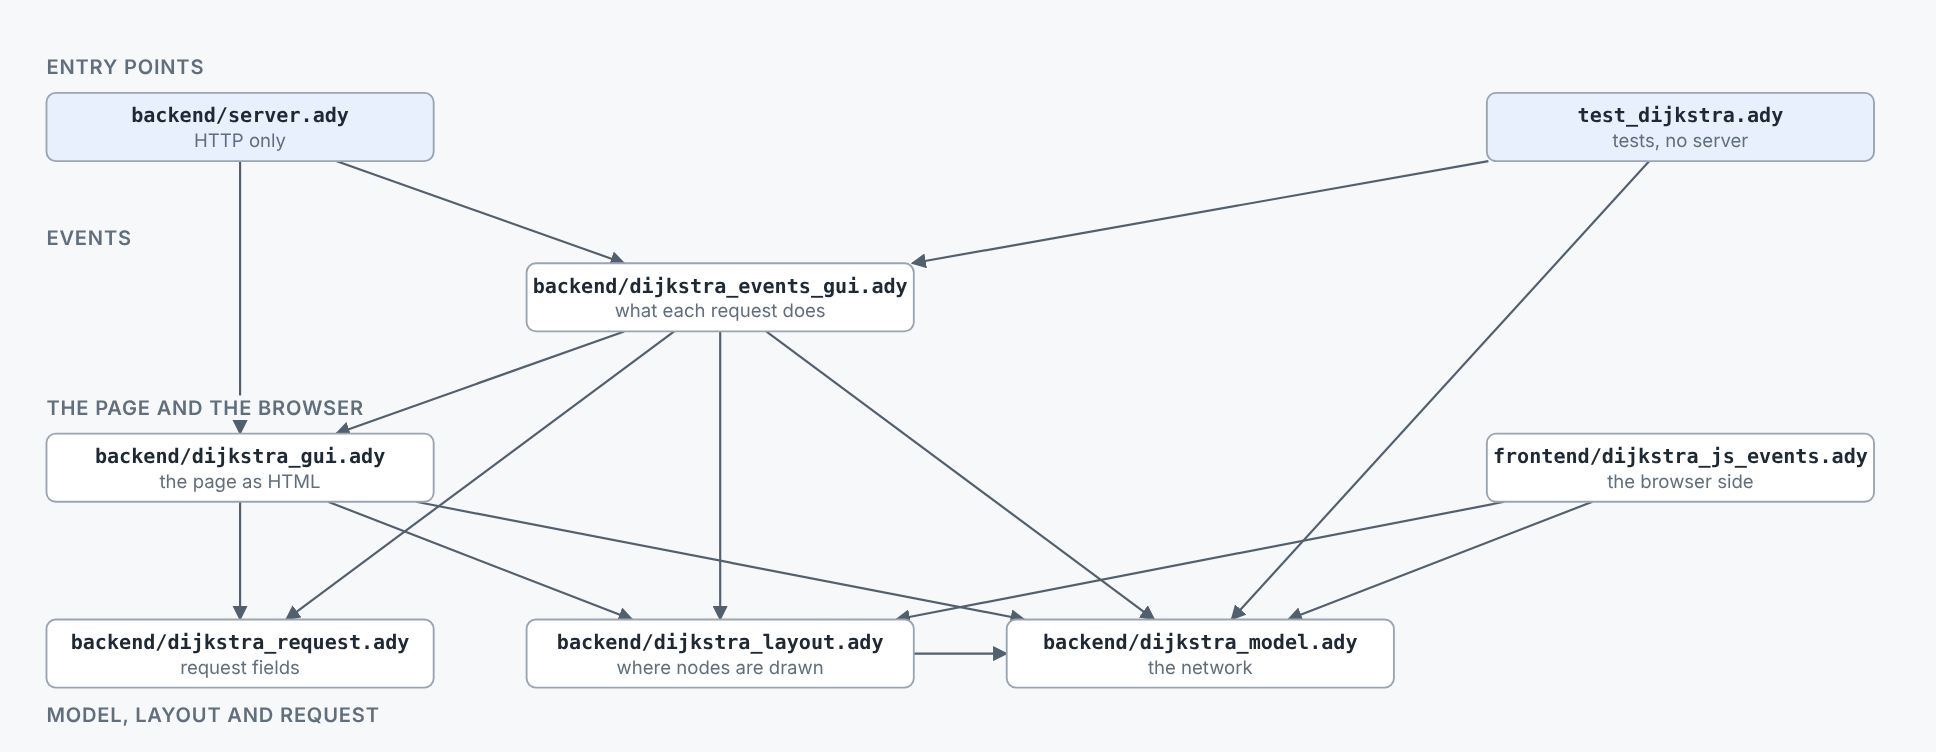
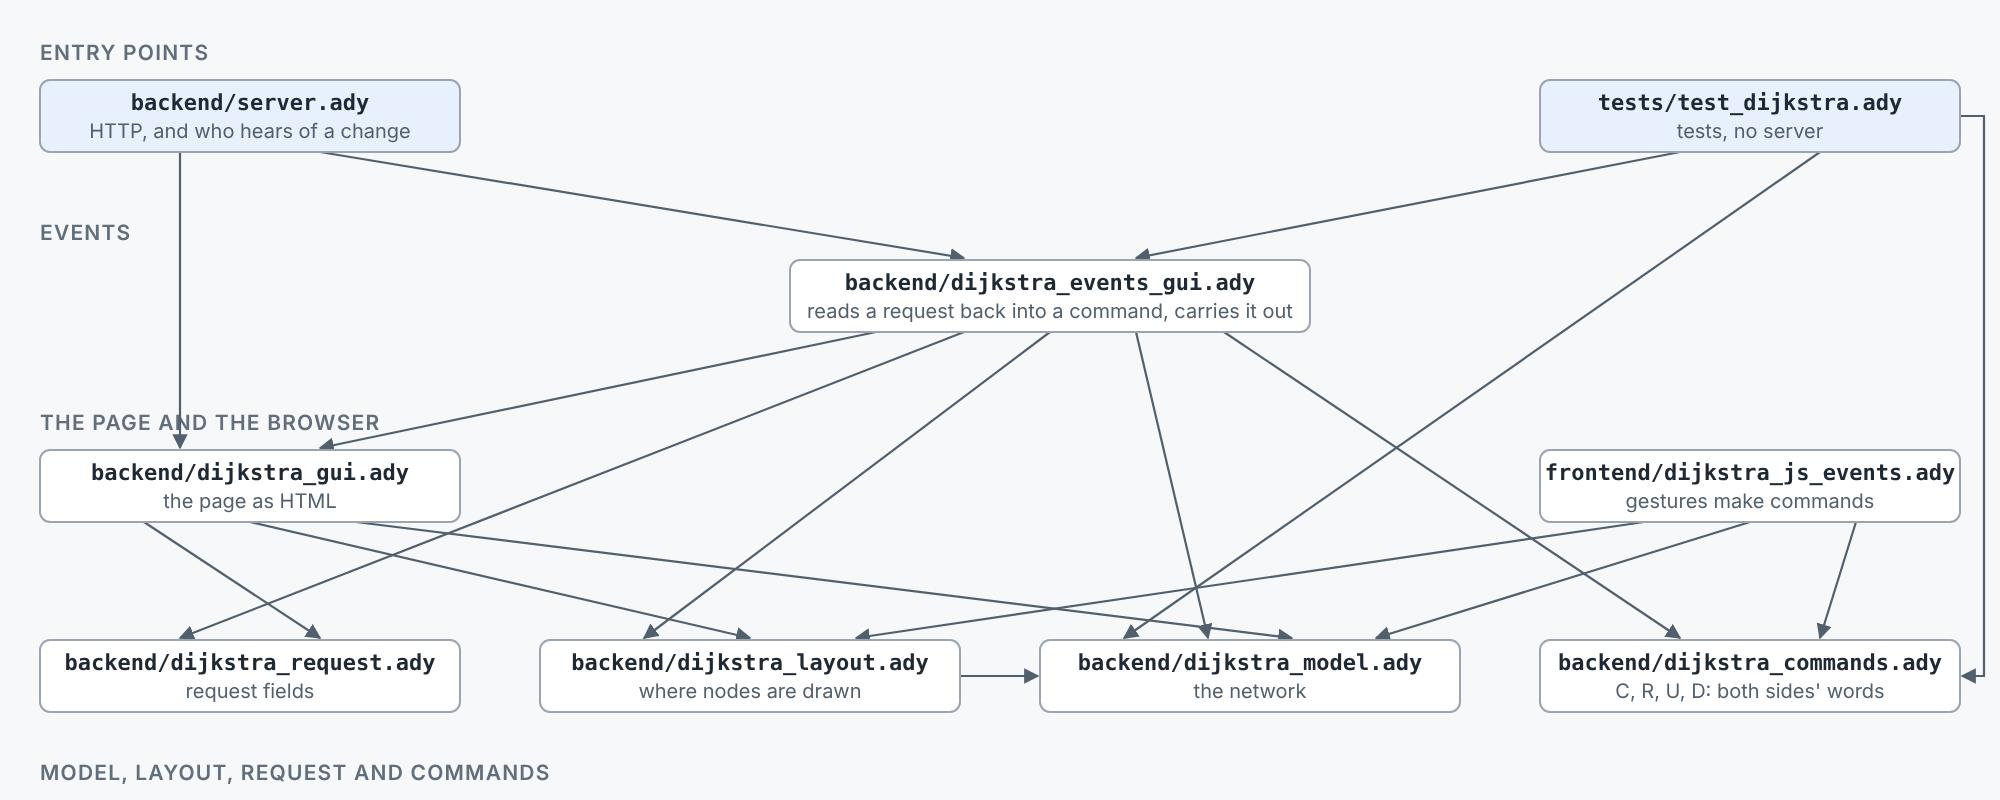
DIJKSTRA_HTMX: the page and the server speak one vocabulary of commands
backend/dijkstra_commands.ady (was frontend/), compiled both ways like the
model: Command, its verbs and things, the constructors, method_of and url_of to
put one on the wire and command_of to read it back. Session.answer reads every
request back into a Command and carry_out does it, a case on the thing and one
on the verb; a Change carries the same Verb_T (UPDATE with no key for
relayout and reset, in place of RELOAD). send stays in the page. Tests check
every command survives the wire; README, tutorial and dependencies.png say so.

Claude-Session: https://claude.ai/code/session_01J5q3BrRCyVziRUYfDHvMwS

diff --git a/BROWSER_EXAMPLES/DIJKSTRA_HTMX/README.md b/BROWSER_EXAMPLES/DIJKSTRA_HTMX/README.md
@@ -30,16 +30,16 @@ the other.
 |---|---|
 | `backend/dijkstra_model.ady` | the model, a placeholder: a class `Network` of `Node_T`s (a name each), `Edge_T`s and the places the reader put the nodes, with its methods (`add_node`, `remove_node`, `add_edge`, `set_cost`, `remove_edge`, `put`, `forget_places`, each `add`, `remove` or `set` refusing with a `Refusal_T` (its `message` is what the page shows), or done; `names`, `edge_at`, `text`, `build_graph`, which makes of it the graph the library's `shortest_route` wants, `TO_NIM/STDLIB/graphs.ady`); `Network(text)`, a second constructor, reads it back from text. Replace it with your own; no HTML, no HTTP. |
 | `backend/dijkstra_layout.ady` | where each node is drawn when the reader has not put it somewhere: `place_of` (the places the model keeps, else `new_spot`, the layout algorithm: evenly spaced round an ellipse, in the model's order), and `inside`, which keeps a node within the drawing's margin. Compiled both ways, like the model: the server draws the page with it, and the browser's `NetworkView` moves nodes with it. |
+| `backend/dijkstra_commands.ady` | the vocabulary of the page and the server: a `Command` is a verb (`CREATE`, `READ`, `UPDATE`, `DELETE`), what it is done to (`NODE`, `EDGE`, the `NETWORK` that is read) and its fields; one function per command (`create_node`, `update_node`, `delete_node`, `create_edge`, `update_edge`, `delete_edge`, `read_network`); `method_of` and `url_of` put it on the wire, `command_of` reads it back. Compiled both ways, like the model: the page makes commands, the server carries them out, and what changed goes out in the same verbs. No HTML, no HTTP. |
 | `backend/dijkstra_gui.ady` | how to draw it: the SVG, the buttons, the form `#state`, the menus, the text. A function from the network and what is picked to HTML: `all_html` for the page, `problem_html` for the answer to a command, `to_html` for the drawing and for each node and edge in it. |
-| `backend/dijkstra_request.ady` | the fields of a request: `field_of` and `number_of` read them, `params_of` reads the reader's choice (`Params_T`: the start, the goal, the node clicked). No HTML, no HTTP. |
-| `backend/dijkstra_events_gui.ady` | what each request does: `Session.answer(method, path, fields)`: a read returns the page; a command calls the model, answers only whether it went through (`#problem`), and publishes the `Change` on its channel (`nodes`, `edges`). A `Session` holds the network and the file it is kept in (`keep` writes it). No HTTP, so the tests call it. |
+| `backend/dijkstra_request.ady` | the fields of a request: `fields_of` reads them all by name, `field_of` and `number_of` one, `params_of` reads the reader's choice (`Params_T`: the start, the goal, the node clicked). No HTML, no HTTP. |
+| `backend/dijkstra_events_gui.ady` | what each request does: `Session.answer(method, path, fields)` reads it back into a `Command`; a read returns the page; a change (`carry_out`) calls the model, answers only whether it went through (`#problem`), and publishes the `Change` on its channel (`nodes`, `edges`). A `Session` holds the network and the file it is kept in (`keep` writes it). No HTTP, so the tests call it. |
 | `backend/server.ady` | HTTP, and who hears of a change: hands each request to `session.answer`, serves the two scripts, keeps `GET /events` open for every page, and subscribes `keep` (writes `graph.txt`) and `tell` (writes the change to every open page) to the session's channels. |
-| `frontend/dijkstra_js_events.ady` | the browser side, compiled to JavaScript: moves a node and redraws its edges while the mouse moves (the server could not keep up with every frame), then sends the new place (PUT /nodes). Every gesture makes a command (`dijkstra_commands.ady`) and `send`s it. It follows `GET /events` and reads the page again (`GET /all`, into `#all`) on each change, whichever page made it. |
-| `frontend/dijkstra_commands.ady` | what the page can ask of the server: a `Command` is a verb (`CREATE`, `READ`, `UPDATE`, `DELETE`), what it is done to (`NODE`, `EDGE`, the `NETWORK` that is read) and its fields; one function per command (`create_node`, `update_node`, `delete_node`, `create_edge`, `update_edge`, `delete_edge`, `read_network`), and `send`, the one place a command goes to the server. |
+| `frontend/dijkstra_js_events.ady` | the browser side, compiled to JavaScript: moves a node and redraws its edges while the mouse moves (the server could not keep up with every frame), then sends the new place (PUT /nodes). Every gesture makes a command (`backend/dijkstra_commands.ady`), and `send`, the one place the page talks to the server, sends it. It follows `GET /events` and reads the page again (`GET /all`, into `#all`) on each change, whichever page made it. |
 | `tests/test_dijkstra.ady` | tests of the model, and of the page through `session.answer`, as the browser would ask (a command, then the page read again), and of what a subscriber hears; nothing is started. |
 | `frontend/htmx.min.js` | htmx, vendored (14 KB gzipped). |
 
-`backend/` is native (compiled to C), `frontend/` is what the browser runs (JavaScript: our `dijkstra_js_events.ady` and the vendored htmx). The model and the layout are compiled both ways: the page carries the network, its places included, as the server keeps it (a hidden `pre#network`), and `dijkstra_js_events.ady` builds its `NetworkView` from that with the same `Network(text)`, so where a node is drawn is computed from the model, never read off the drawing.
+`backend/` is native (compiled to C), `frontend/` is what the browser runs (JavaScript: our `dijkstra_js_events.ady` and the vendored htmx). The model, the layout and the commands are compiled both ways: the page carries the network, its places included, as the server keeps it (a hidden `pre#network`), and `dijkstra_js_events.ady` builds its `NetworkView` from that with the same `Network(text)`, so where a node is drawn is computed from the model, never read off the drawing.
 
 ## How it works
 
@@ -68,7 +68,7 @@ The routes are a small REST interface on two collections. Commands in, events ou
 * A gesture on the drawing (a click on a node, a drag, a wire, a double-click, a
   menu, the Delete key) has no button: it makes a **command**, Create, Read, Update or
   Delete of a node or an edge, and `send` sends it: `send(delete_node(n))`
-  (`frontend/dijkstra_commands.ady`). Several gestures make the same command (Delete,
+  (`backend/dijkstra_commands.ady`). Several gestures make the same command (Delete,
   Backspace and the menu's "Delete node" all make `delete_node`), and nothing after the
   command knows which gesture it was. The verb is the HTTP method, the thing the URL;
   the browser module's `request` sends it with `#state`, into `#problem` (a read, into

diff --git a/BROWSER_EXAMPLES/DIJKSTRA_HTMX/docs/TUTORIAL.md b/BROWSER_EXAMPLES/DIJKSTRA_HTMX/docs/TUTORIAL.md
@@ -25,7 +25,7 @@ each page then reads itself again. The program is split by what each part knows:
 | The page | `backend/dijkstra_gui.ady` | how the data looks as HTML |
 | The requests | `backend/dijkstra_events_gui.ady` | what each request does to the data, and the change it publishes |
 | The server | `backend/server.ady` | HTTP, and who hears of a change: the file (`keep`) and every open page (`tell`) |
-| The commands | `frontend/dijkstra_commands.ady` | what the page can ask of the server: C, R, U or D of a node or an edge |
+| The commands | `backend/dijkstra_commands.ady` | what the page can ask of the server, in words both share: C, R, U or D of a node or an edge |
 | The browser | `frontend/dijkstra_js_events.ady` | the gestures, each making a command; what must follow the mouse |
 
 Each layer only calls the one below it. The model never imports HTML,
@@ -252,36 +252,45 @@ button type="button" class="quiet" data_hx_post="/reset" data_hx_confirm="Put th
 `data_hx_post` names the request, and `data_hx_confirm` asks first.
 `data_hx_target` and `data_hx_swap` say where the answer goes.
 
-**The server decides what a request does.** `server.ady` only matches
-the path and hands the request on. `Session.answer` does the work, one `case`
-per route:
+**The server reads each request back into a command.** `server.ady` only matches
+the path and hands the request on. `Session.answer` reads it back into the same
+`Command` the page sent (`command_of`, in `backend/dijkstra_commands.ady`, the
+vocabulary both sides share), and `carry_out` does it, one `case` on what it is done
+to and one on the verb:
 
 ```adascript
 class Session:
     ...
     def answer(self, method: str, path: str, fields: str) -> str:
+        ...                                     # relayout and reset: routes of their own
+        let c: ?Command = command_of(method, path, fields_of(fields))
+        if c is None:
+            return ""
+        if c.verb == READ:
+            return all_text(self.net, params_of(fields), self.unsaved)
+        return problem_text(self.carry_out(c))
+
+    def carry_out(self, c: Command) -> None | !Refusal_T:
         ...
-        case method + " " + path:
-            when "GET /all":
-                return all_text(self.net, params_of(fields), self.unsaved)
-            when "POST /nodes":
+        case c.thing:
+            when NODE:
+                case c.verb:
+                    when CREATE:
+                        problem = self.net.add_node(name)
+                        ...
+                    when DELETE:
+                        ...
+                        problem = self.net.remove_node(name)
+                    ...
+                node_changes.append(Change(c.verb, name))
+            when EDGE:
                 ...
-                problem = self.net.add_node(name)
-                ...
-                node_changes.append(Change(CREATE, name))
-            when "DELETE /nodes":
-                ...
-                problem = self.net.remove_node(name)
-                node_changes.append(Change(DELETE, name))
-            ...
-            when others:
-                return ""
         if problem is None:
-            for c in edge_changes:
-                self.edges.publish(c)
-            for c in node_changes:
-                self.nodes.publish(c)
-        return problem_text(problem)
+            for ch in edge_changes:
+                self.edges.publish(ch)
+            for ch in node_changes:
+                self.nodes.publish(ch)
+        return problem
 ```
 
 The routes are listed in a comment above `answer`, in the class. **Commands in, events
@@ -304,7 +313,8 @@ JavaScript with `ady2nim js`.
 
 **A gesture makes a command; one place sends it.** What the page can ask of the
 server is four verbs on two things, Create, Read, Update or Delete of a node or an
-edge, and each is a `Command`, in `frontend/dijkstra_commands.ady`:
+edge, and each is a `Command`, in `backend/dijkstra_commands.ady`, which is compiled
+both ways, like the model, so the server reads a request back into the same `Command`:
 
 ```adascript
 type Verb_T is enum CREATE, READ, UPDATE, DELETE
@@ -386,18 +396,17 @@ What ties them together is a channel per kind of change, from the standard libra
 ```adascript
 from blackboard import PublishChannel
 
-type Change_Kind_T is enum CREATE, UPDATE, DELETE, RELOAD
 type Change is record:
-    kind: Change_Kind_T
-    key:  str                           # the node's name, or the edge's two ends
+    kind: Verb_T                        # CREATE, UPDATE or DELETE: the commands' own verbs
+    key:  str                           # the node's name, or the edge's two ends; "" for everything
 
 class Session:
     var nodes: PublishChannel[Change]   # what happened to a node
     var edges: PublishChannel[Change]   # what happened to an edge
     ...
         if problem is None:             # only what went through is told
-            for c in node_changes:
-                self.nodes.publish(c)
+            for ch in node_changes:
+                self.nodes.publish(ch)
 ```
 
 and the server says who listens, once, at start:
